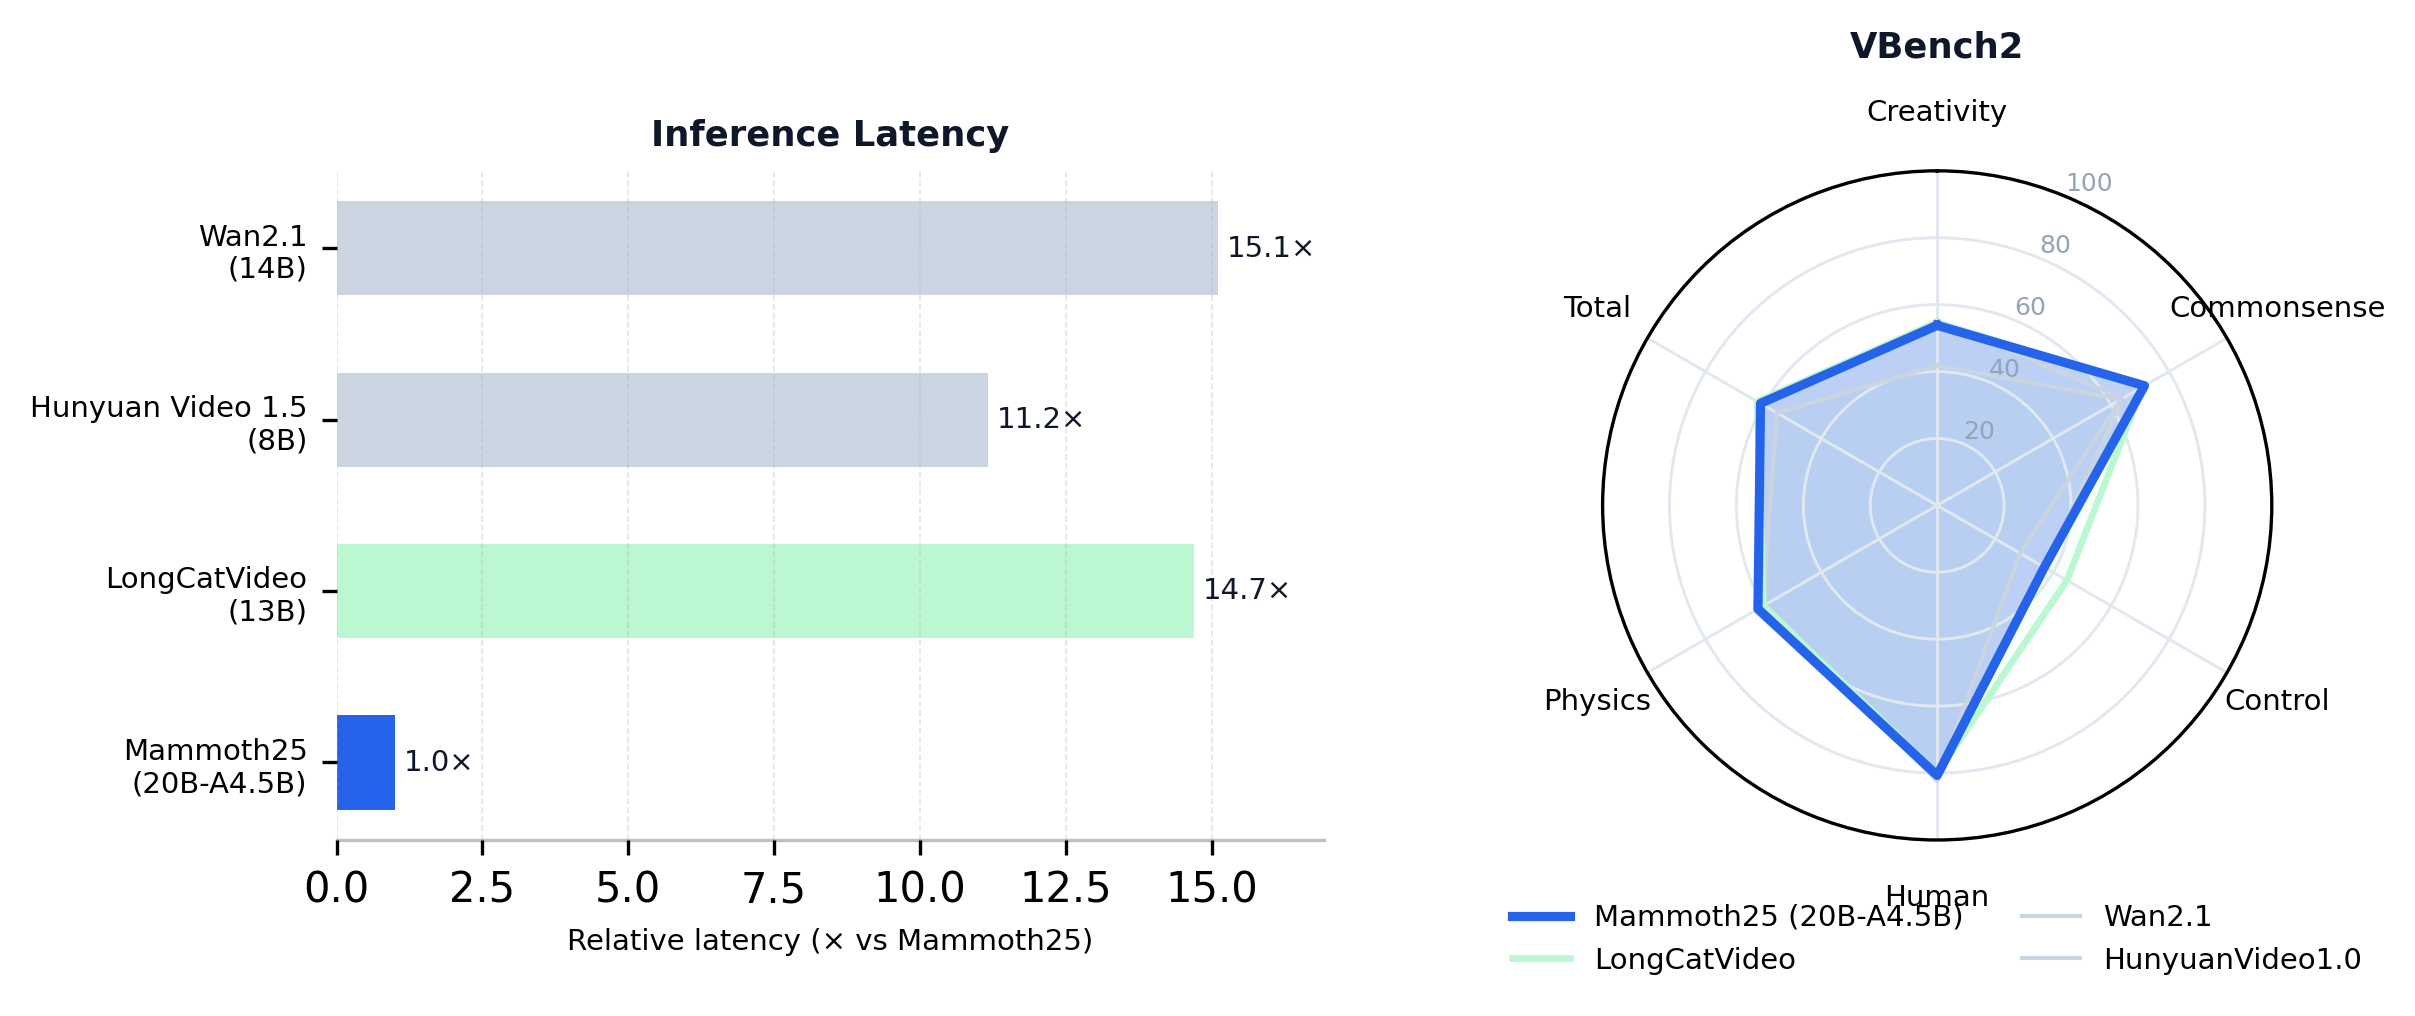
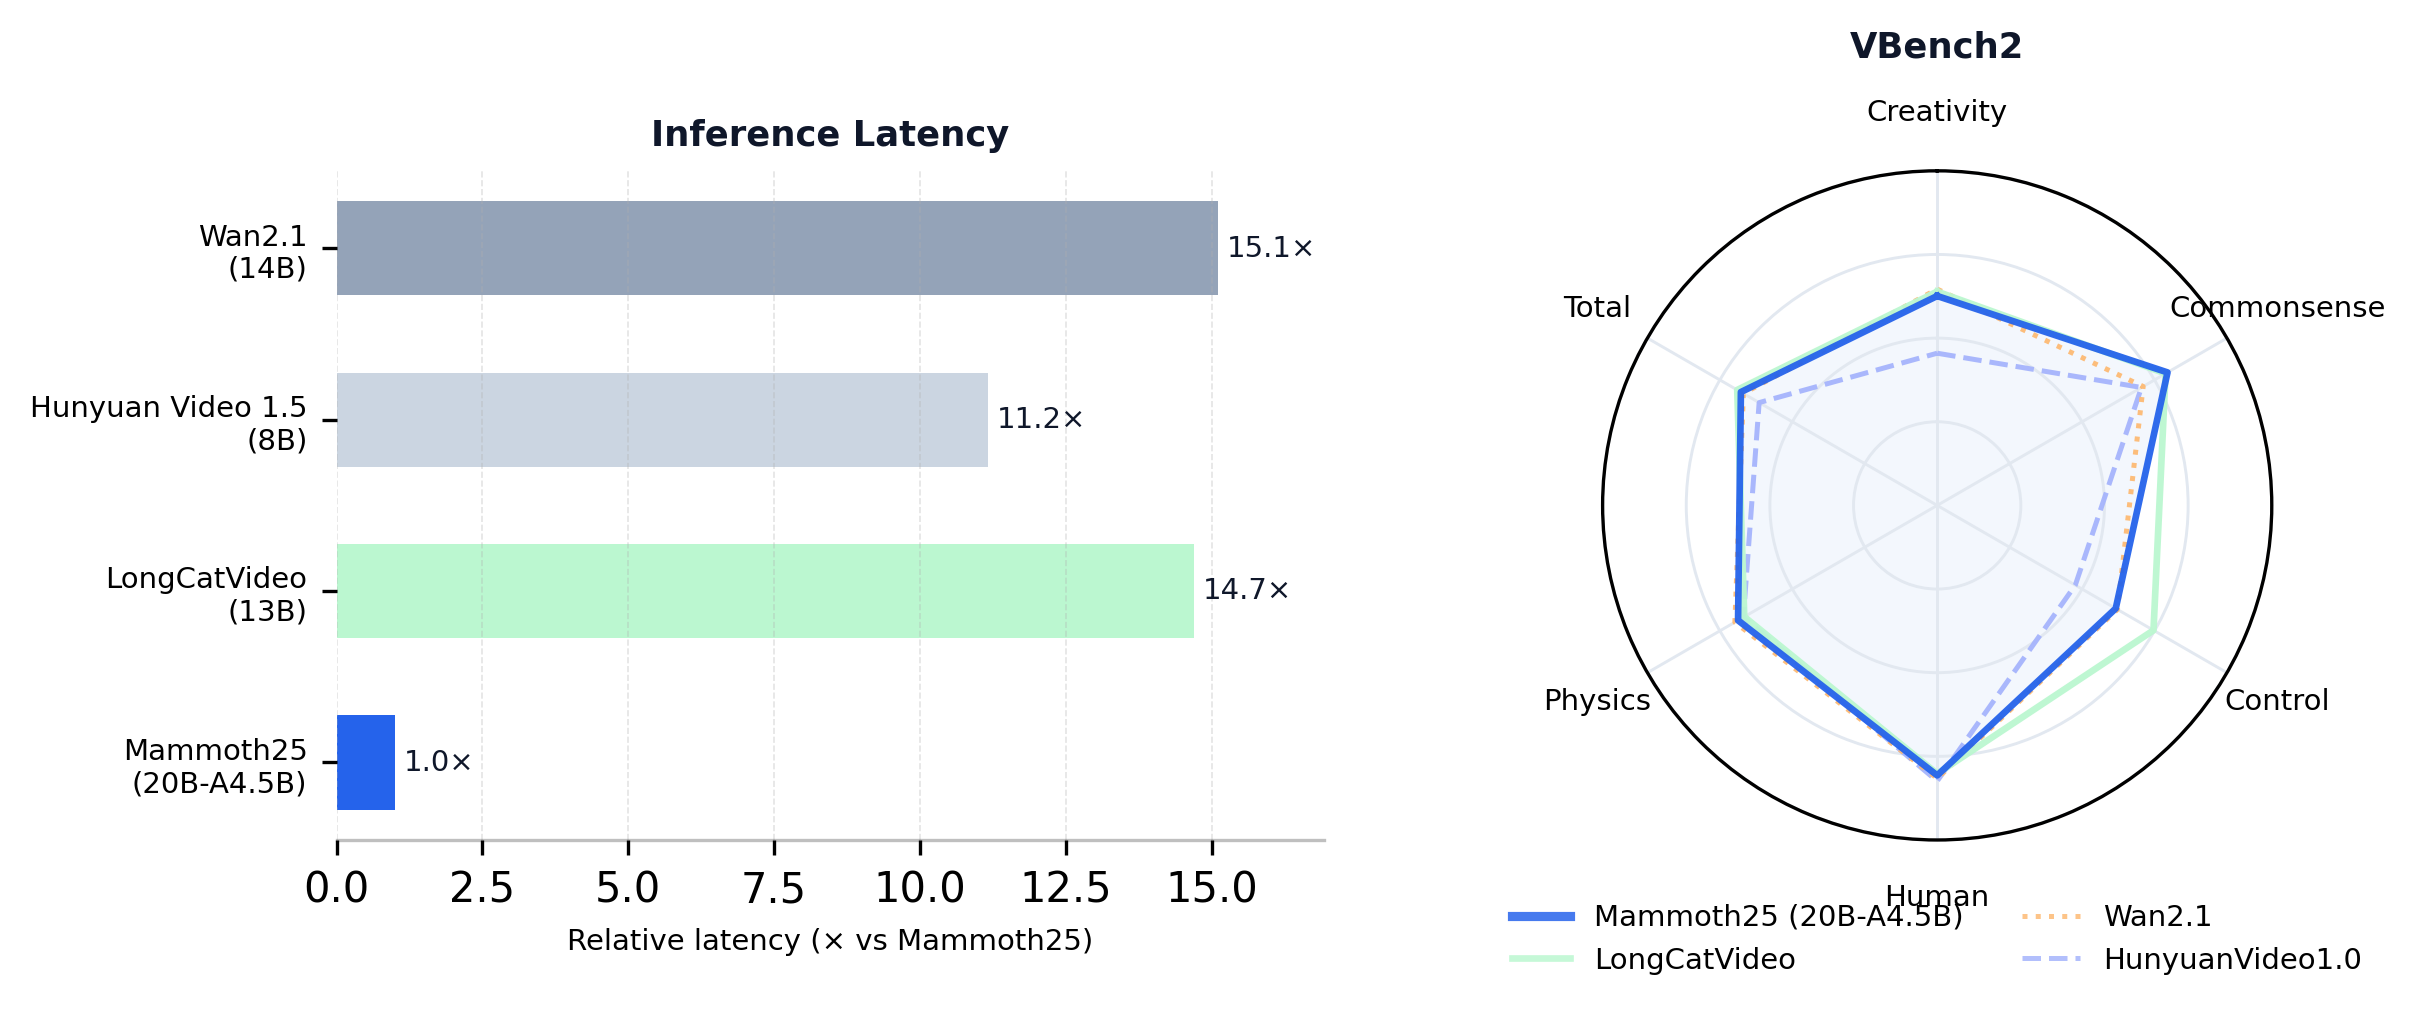
update

diff --git a/index.html b/index.html
@@ -113,6 +113,30 @@
             color: var(--text);
         }
 
+        #intro .intro-subtitle {
+            margin: -26px auto 28px auto;
+            font-size: 16px;
+            font-weight: 500;
+            color: var(--muted);
+            line-height: 1.6;
+            max-width: 920px;
+            width: 86%;
+        }
+
+        #intro .intro-subtitle .intro-highlight {
+            font-weight: 650;
+            color: var(--accent-1);
+        }
+
+        @supports (-webkit-background-clip: text) {
+            #intro .intro-subtitle .intro-highlight {
+                background: linear-gradient(90deg, var(--accent-1), var(--accent-2));
+                -webkit-background-clip: text;
+                background-clip: text;
+                color: transparent;
+            }
+        }
+
         .authors {
             max-width: 900px;
             font-size: 16px;
@@ -982,7 +1006,8 @@
                 <img id="title-icon" src="./assets/logo.png" alt="Icon">
                 <h1><strong>MammothModa</strong></h1>
             </div>
-            <h2><strong>A Unified AR-Diffusion Framework for Multimodal Understanding and Generation</strong></h2>
+            <h2><strong>A Unified AR-Diffusion Framework for Visual Understanding and Generation</strong></h2>
+            <div class="intro-subtitle">Equipped with a <span class="intro-highlight">Frontier Mixture-of-Experts DiT</span> for Video Generation</div>
             <div class="authors">
                 
             </div>
@@ -1064,7 +1089,7 @@
 
                 <div class="highlights-row">
                     <div class="highlight-media">
-                        <img class="highlight-figure" src="./assets/highlight_benchmark.png?v=3"
+                        <img class="highlight-figure" src="./assets/highlight_benchmark.png?v=7"
                             alt="Inference latency and VBench2 radar comparison"
                             onerror="this.style.display='none'; this.nextElementSibling.style.display='flex';">
                         <div class="highlight-placeholder" style="display: none;">
@@ -1075,7 +1100,7 @@
                         <div class="highlight-title">Efficient & Strong on Public Benchmarks</div>
                         <p class="highlight-text">
                             Mammoth25 (20B-A4.5B) delivers 11–15× lower video latency than state-of-the-art video generators（e.g., LongCat-Video） while maintaining
-                            strong quality on VBench2 with a 60.97% total score.
+                            strong performance on VBench2 with a 60.97% total score.
                         </p>
                     </div>
                 </div>
@@ -1625,7 +1650,7 @@
     <section class="bibtex-section">
         <h3>BibTeX</h3>
         <pre class="bibtex-code">@misc{bytedance_mammothmoda2_2025,
-  title = {MammothModa2: A Unified AR-Diffusion Framework for Multimodal Understanding and Generation},
+  title = {MammothModa2: A Unified AR-Diffusion Framework for  Understanding and Generation},
   author = {ByteDance Research},
   year = {2025},
   howpublished = {\url{https://github.com/bytedance/mammothmoda}},
